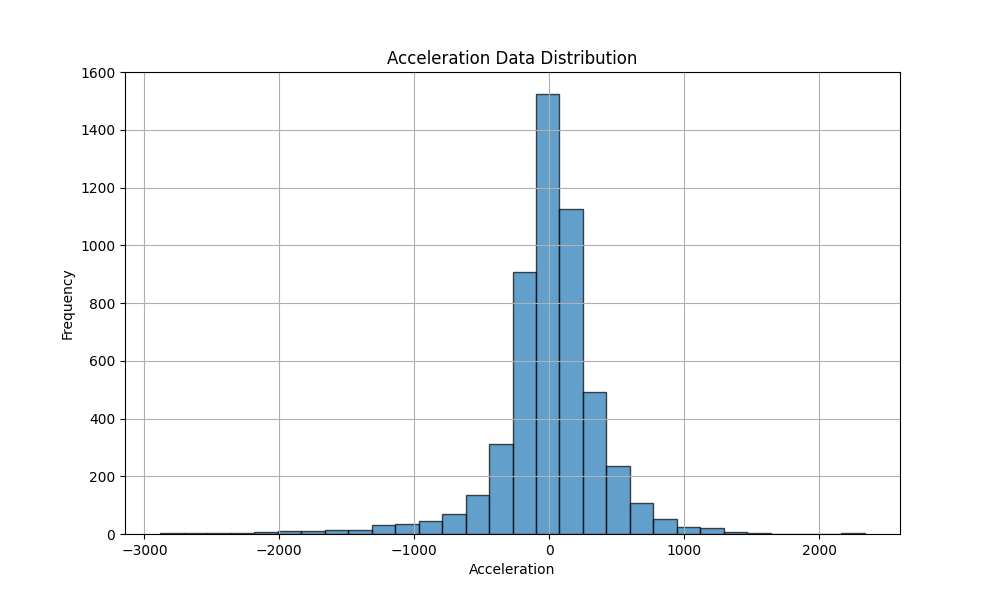
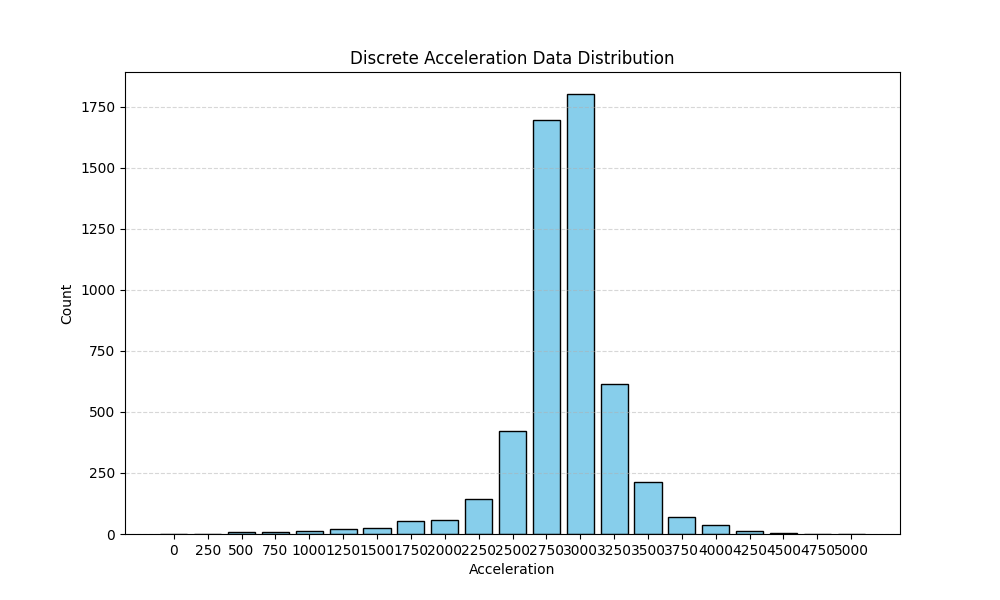
commit

diff --git a/expert_demonstration/dist_expert_walking.py b/expert_demonstration/dist_expert_walking.py
@@ -110,9 +110,9 @@ acc = np.concatenate((acc_01, acc_02, acc_03), axis=0)
 print("length of T"+No1+", T"+No2+", T"+No3+": ", len(acc_01), len(acc_02), len(acc_03))
 print("length of faltten trajectory:", len(acc))
 
-# save vel and acc
-plot_histogram(acc, title='Acceleration Data Distribution', xlabel='Acceleration', savename=data_source+'_histogram_acc')
-plot_histogram(vel, title='Velocity Data Distribution', xlabel='Velocity', savename=data_source+'_histogram_vel')
+# # save vel and acc
+# plot_histogram(acc, title='Acceleration Data Distribution', xlabel='Acceleration', savename=data_source+'_histogram_acc')
+# plot_histogram(vel, title='Velocity Data Distribution', xlabel='Velocity', savename=data_source+'_histogram_vel')
 
 # bin the data
 vel_start, vel_end, vel_step = v[data_source]['vel_bin_params']
@@ -131,6 +131,9 @@ acc_bin_group = np.unique(acc_binned)
 print("direction binned group: ", direction_bin_group)
 print("vel binned group: ", vel_bin_group)
 print("acc binned group: ", acc_bin_group)
+plot_bins_histogram(vel_binned, title='Discrete Velocity Data Distribution', xlabel='Velocity', bin_step=5, savename=data_source+'_histogram_vel')
+plot_bins_histogram(direction_binned, title='Discrete Direction Data Distribution', xlabel='Direction', bin_step=5, savename=data_source+'_histogram_direction')
+plot_bins_histogram(acc_binned, title='Discrete Acceleration Data Distribution', xlabel='Acceleration', bin_step=250, savename=data_source+'_histogram_acc')
 
 # Load grouped gait combinations (6 types)
 grouped_gait_combinations = v['grouped_gait_combinations']

diff --git a/expert_demonstration/plot_expert.py b/expert_demonstration/plot_expert.py
@@ -12,6 +12,20 @@ def plot_histogram(data, title, xlabel, ylabel='Frequency', bins=30, savename='C
     plt.grid(True)
     plt.savefig('expert_demonstration/expert/plot/' + savename + '.png')
 
+def plot_bins_histogram(data, title, xlabel, bin_step, savename='CarausuisC00_histogram_vel'):
+    data = pd.DataFrame(data)
+    count_per_bin = data.value_counts().sort_index()
+    count_per_bin.index = range(len(count_per_bin.index))
+    plt.figure(figsize=(10, 6))
+    plt.bar(count_per_bin.index, count_per_bin.values, color='skyblue', edgecolor='black')
+    plt.title(title)
+    x_ticks = count_per_bin.index
+    plt.xticks(x_ticks, [int(tick * bin_step) for tick in x_ticks])
+    plt.xlabel(xlabel)
+    plt.ylabel('Count')
+    plt.grid(axis='y', linestyle='--', alpha=0.5)
+    plt.savefig('expert_demonstration/expert/plot/' + savename + '.png')
+
 def heatmap_direction_vel_reward(analysis_df):
     # Create a pivot table to count occurrences
     pivot_table = analysis_df.pivot_table(
